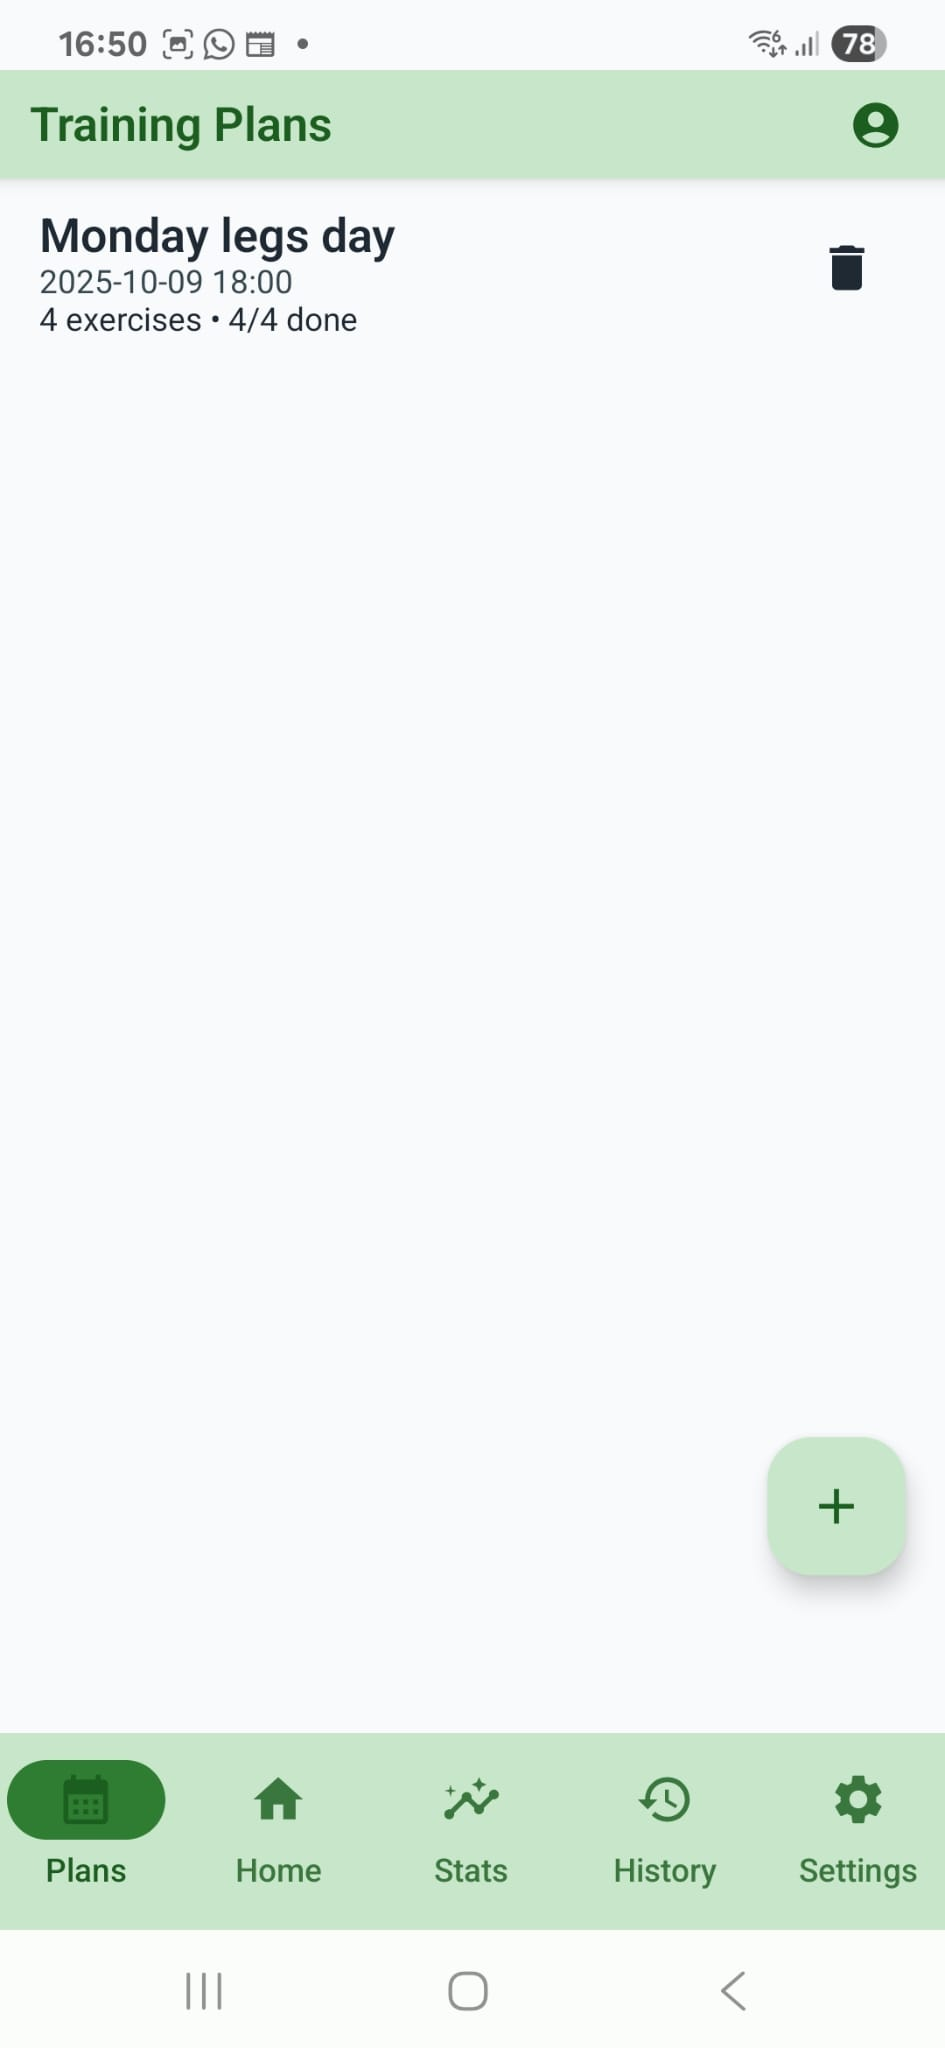
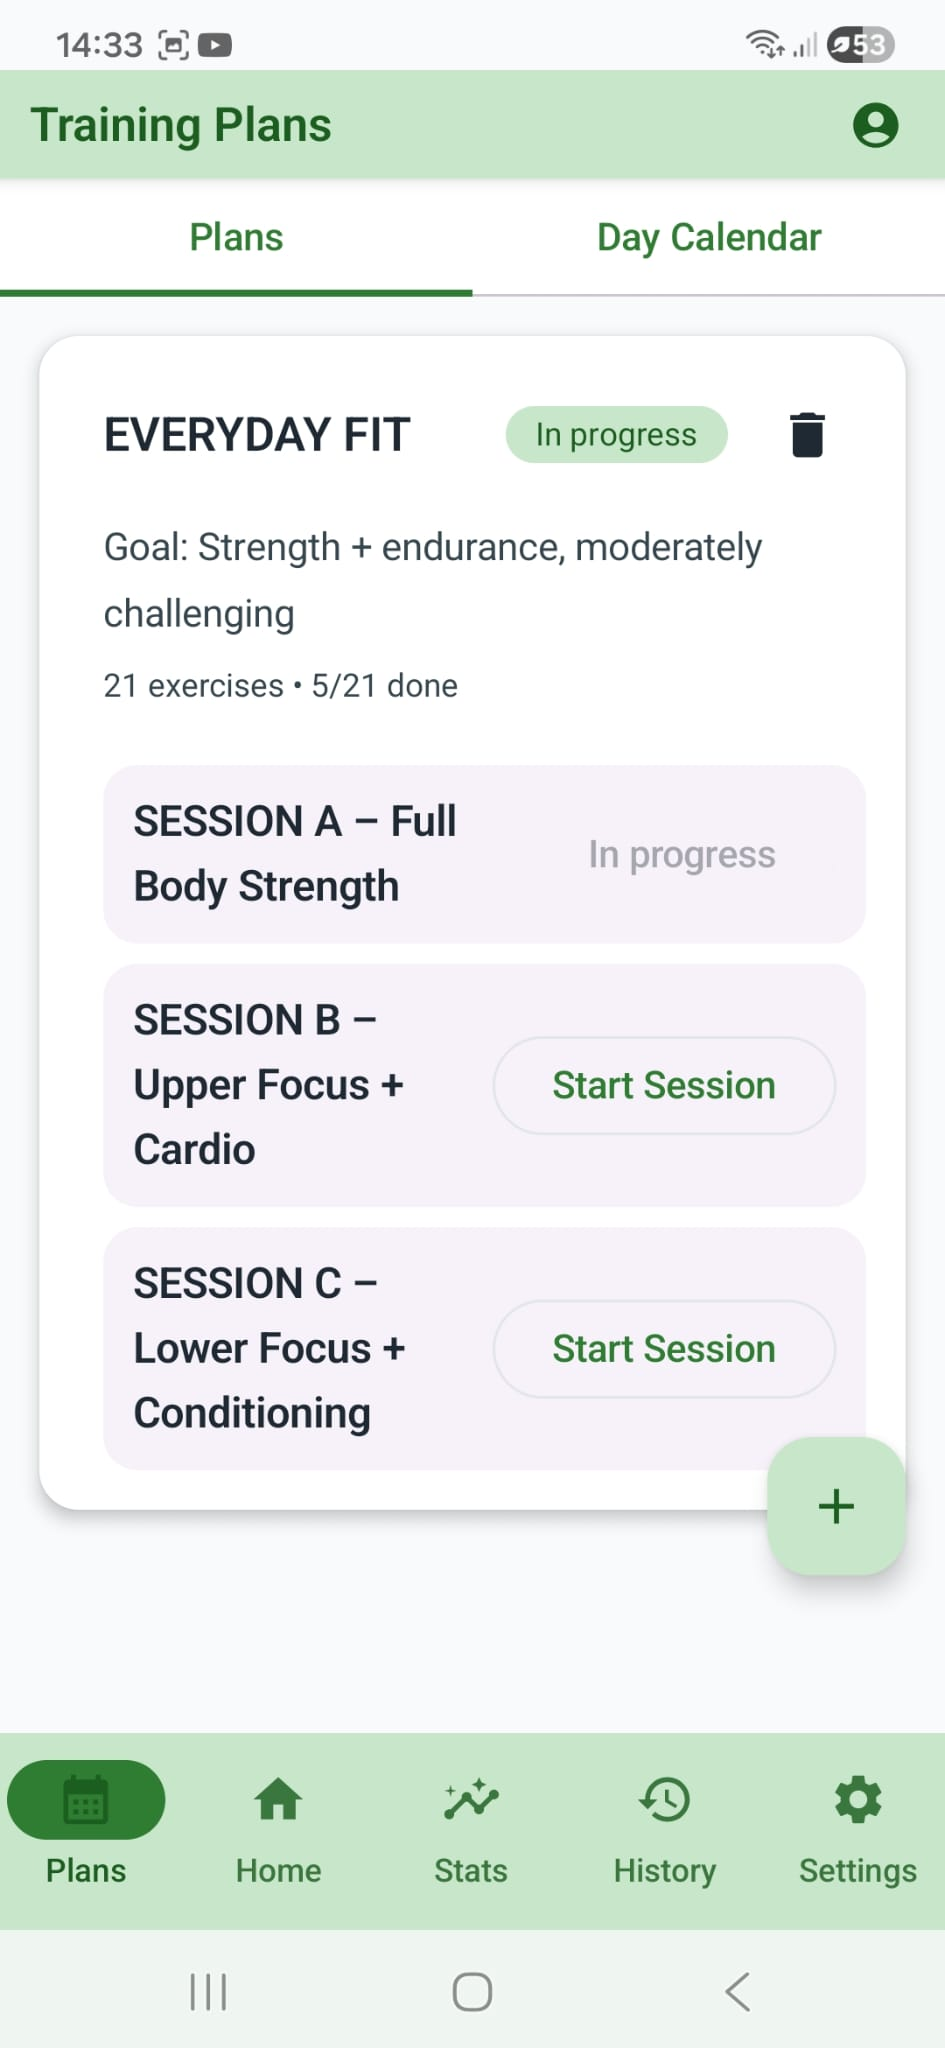
Update site screenshots and usage pages

diff --git a/docs/usage.html b/docs/usage.html
@@ -50,17 +50,17 @@
     <main class="wrap">
       <div class="card section">
         <h1>FitSynca — Quick Usage Guide</h1>
-        <p class="lead">A visual, step‑by‑step overview of the main screens and actions.</p>
+        <p class="lead">A visual, step-by-step overview of the current app screens and core actions.</p>
       </div>
-      <p>This guide covers the basics of using FitSynca to log workouts and manage your data.</p>
+      <p>This guide covers the basics of using FitSynca to manage plans, log workouts, review stats, and back up your data.</p>
 
       <section class="card section">
         <h2>Home & Navigation</h2>
         <ul>
-          <li>Home: browse categories to start a <strong>Strength</strong> or <strong>Cardio</strong> session quickly.</li>
-          <li>Stats tab: review weekly calories, active minutes, strength volume, and streaks at a glance.</li>
-          <li>Bottom banners are ads; your workout data is never sent with ad requests.</li>
-          <li>Use the Back button to return; the app saves only when you tap <strong>Save</strong>.</li>
+          <li>Home: browse muscle groups and jump into your saved <strong>Favorite Workouts</strong> for faster access.</li>
+          <li>The bottom navigation gives direct access to <strong>Plans</strong>, <strong>Home</strong>, <strong>Stats</strong>, <strong>History</strong>, and <strong>Settings</strong>.</li>
+          <li>Use the profile icon in the top-right corner to switch or manage profiles.</li>
+          <li>Stats helps you review weekly activity and body progress at a glance.</li>
         </ul>
         <div class="gallery">
           <figure>
@@ -68,12 +68,12 @@
             <figcaption>Home screen</figcaption>
           </figure>
           <figure>
-            <img src="images/Stats.jpeg" alt="Stats dashboard" loading="lazy" />
-            <figcaption>Weekly stats</figcaption>
+            <img src="images/favorite_workouts.jpeg" alt="Favorite workouts screen" loading="lazy" />
+            <figcaption>Favorite workouts</figcaption>
           </figure>
           <figure>
-            <img src="images/Darkthem.jpeg" alt="Home screen in dark mode" loading="lazy" />
-            <figcaption>Dark mode</figcaption>
+            <img src="images/Stats.jpeg" alt="Stats dashboard" loading="lazy" />
+            <figcaption>Weekly stats</figcaption>
           </figure>
         </div>
       </section>
@@ -81,46 +81,60 @@
       <section class="card section">
         <h2>Logging a Workout</h2>
         <ul>
-          <li>Select an exercise → tap <strong>Add Set</strong>.</li>
-          <li>Strength: enter <em>reps</em> and <em>weight</em>. Cardio: enter <em>minutes</em>, <em>distance</em>, optional extras.</li>
-          <li>Up to 4 sets per exercise entry. Tap <strong>Save Workout</strong> to persist.</li>
-          <li>Need another move? Use <strong>Add Exercise</strong> to create a custom entry — everything stays on device.</li>
+          <li>Open an exercise from Home, Favorites, or a Plan session to start logging.</li>
+          <li>Strength entries support quick weight adjustments and rep tracking directly on the exercise screen.</li>
+          <li>Use <strong>Add Set</strong> to add more entries, then tap <strong>Save Workout</strong> to persist the session.</li>
+          <li>You can keep common exercises pinned in favorites for quicker repeat logging.</li>
         </ul>
         <div class="gallery">
           <figure>
+            <img src="images/workout_content.jpeg" alt="Exercise details and logging controls" loading="lazy" />
+            <figcaption>Exercise detail and logging</figcaption>
+          </figure>
+          <figure>
             <img src="images/Add_new_workout.jpeg" alt="Adding a workout set" loading="lazy" />
-            <figcaption>Add set with timer</figcaption>
+            <figcaption>Add a new set</figcaption>
           </figure>
           <figure>
             <img src="images/workouts.jpeg" alt="Logged workout summary" loading="lazy" />
             <figcaption>Logged workout summary</figcaption>
           </figure>
+        </div>
+      </section>
+
+      <section class="card section">
+        <h2>Training Plans</h2>
+        <ul>
+          <li>Create structured plans with multiple sessions and track progress as you complete exercises.</li>
+          <li>The <strong>Day Calendar</strong> view lets you move sessions to specific dates and work through them from the schedule.</li>
+          <li>Plan progress, history, and stats stay scoped to the active profile.</li>
+        </ul>
+        <div class="gallery">
           <figure>
-            <img src="images/Darkthem.jpeg" alt="Workout logging in dark theme" loading="lazy" />
-            <figcaption>Dark theme logging</figcaption>
+            <img src="images/Plan.jpeg" alt="Training plan overview" loading="lazy" />
+            <figcaption>Plan overview</figcaption>
+          </figure>
+          <figure>
+            <img src="images/Plan_Calendar.jpeg" alt="Training plan day calendar" loading="lazy" />
+            <figcaption>Day calendar</figcaption>
           </figure>
         </div>
       </section>
 
       <section class="card section">
-        <h2>Training plans &amp; profiles</h2>
+        <h2>Profiles</h2>
         <ul>
-          <li>Create detailed plans with sets and targets, then check them off as you train.</li>
-          <li>Switch profiles to keep individual weight, unit preferences, and stats per athlete.</li>
-          <li>Plans, history, and stats stay scoped to the active profile.</li>
+          <li>Use multiple profiles to separate athlete data, weight units, and progress tracking.</li>
+          <li>Edit profile details like age, height, weight, BMI, and notes to keep body analytics current.</li>
         </ul>
         <div class="gallery">
           <figure>
-            <img src="images/Plan_list.jpeg" alt="Training plan list" loading="lazy" />
-            <figcaption>Plan overview</figcaption>
+            <img src="images/profiles.jpeg" alt="Profile list" loading="lazy" />
+            <figcaption>Profile list</figcaption>
           </figure>
           <figure>
-            <img src="images/Plan.jpeg" alt="Training plan detail" loading="lazy" />
-            <figcaption>Plan detail</figcaption>
-          </figure>
-          <figure>
-            <img src="images/profiles.jpeg" alt="Profile selection" loading="lazy" />
-            <figcaption>Profiles</figcaption>
+            <img src="images/edit_profile.jpeg" alt="Edit profile screen" loading="lazy" />
+            <figcaption>Edit profile</figcaption>
           </figure>
         </div>
       </section>
@@ -142,7 +156,8 @@
         <h2>Export & Import</h2>
         <ul>
           <li><strong>Export</strong>: creates a JSON file via the system file picker — you choose where to store it.</li>
-          <li><strong>Import</strong>: restores from a JSON backup you previously saved.</li>
+          <li><strong>Import (append)</strong>: adds backup content to your existing data.</li>
+          <li><strong>Import (replace)</strong>: overwrites current app data with the selected backup.</li>
           <li>Tip: keep backups in your preferred cloud drive for safety.</li>
         </ul>
         <div class="gallery">

diff --git a/docs/index.html b/docs/index.html
@@ -48,15 +48,15 @@
     <main>
       <section class="hero">
         <div class="card">
-          <h1>Track workouts. Stay in sync.</h1>
-          <p class="lead">FitSynca is an offline‑first workout tracker with clean UI, simple logging for strength &amp; cardio, weekly stats at a glance, and optional backups you fully control.</p>
+          <h1>Plan workouts. Log faster. Stay in sync.</h1>
+          <p class="lead">FitSynca is an offline-first workout tracker with muscle-group browsing, favorite workouts, structured training plans, profile-based stats, and local backups you fully control.</p>
           <div class="cta">
             <a class="primary" href="usage.html">See how it works</a>
             <a class="secondary" href="privacy.html">Privacy policy</a>
           </div>
         </div>
         <div class="shot">
-          <img src="images/home.jpeg" alt="FitSynca home and stats preview" loading="lazy" />
+          <img src="images/home.jpeg" alt="FitSynca home screen with favorite workouts and bottom navigation" loading="lazy" />
         </div>
       </section>
       <footer>
